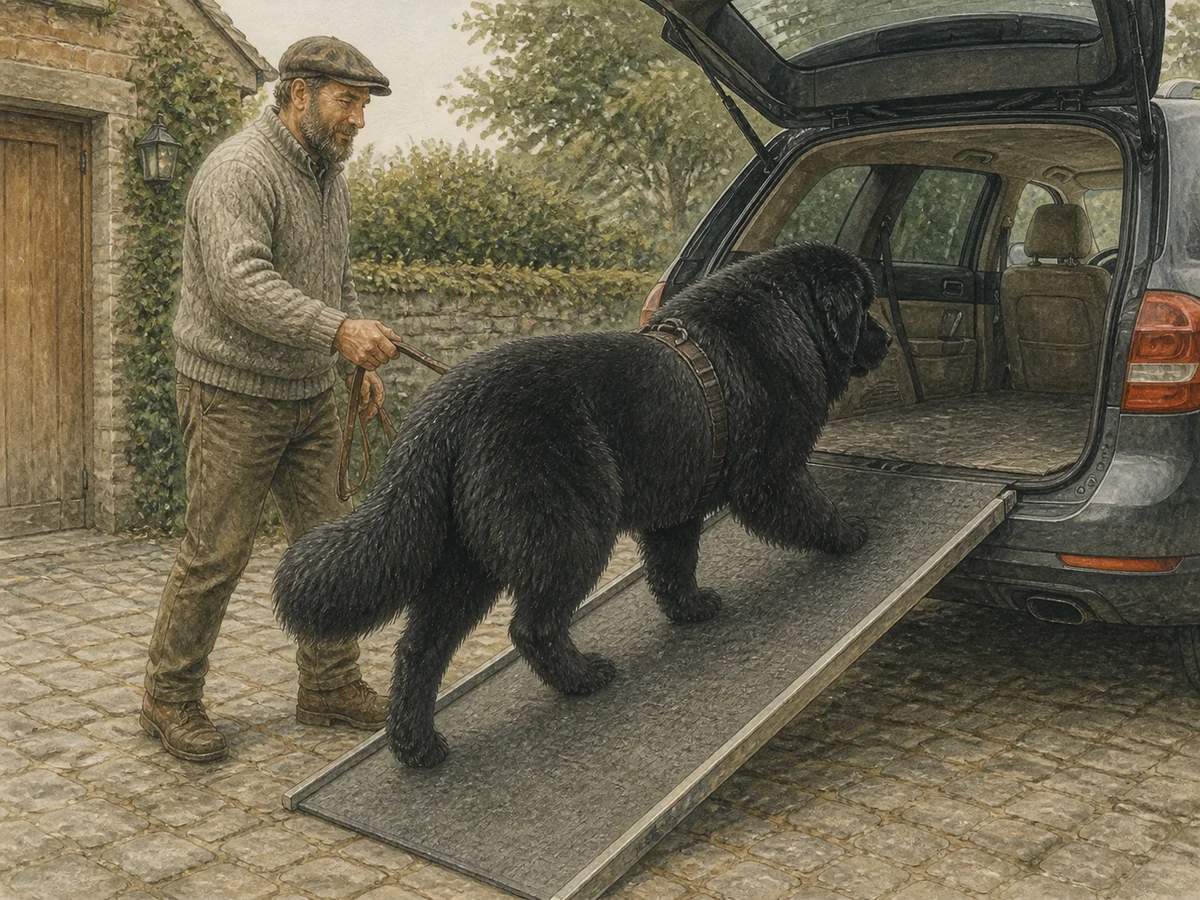
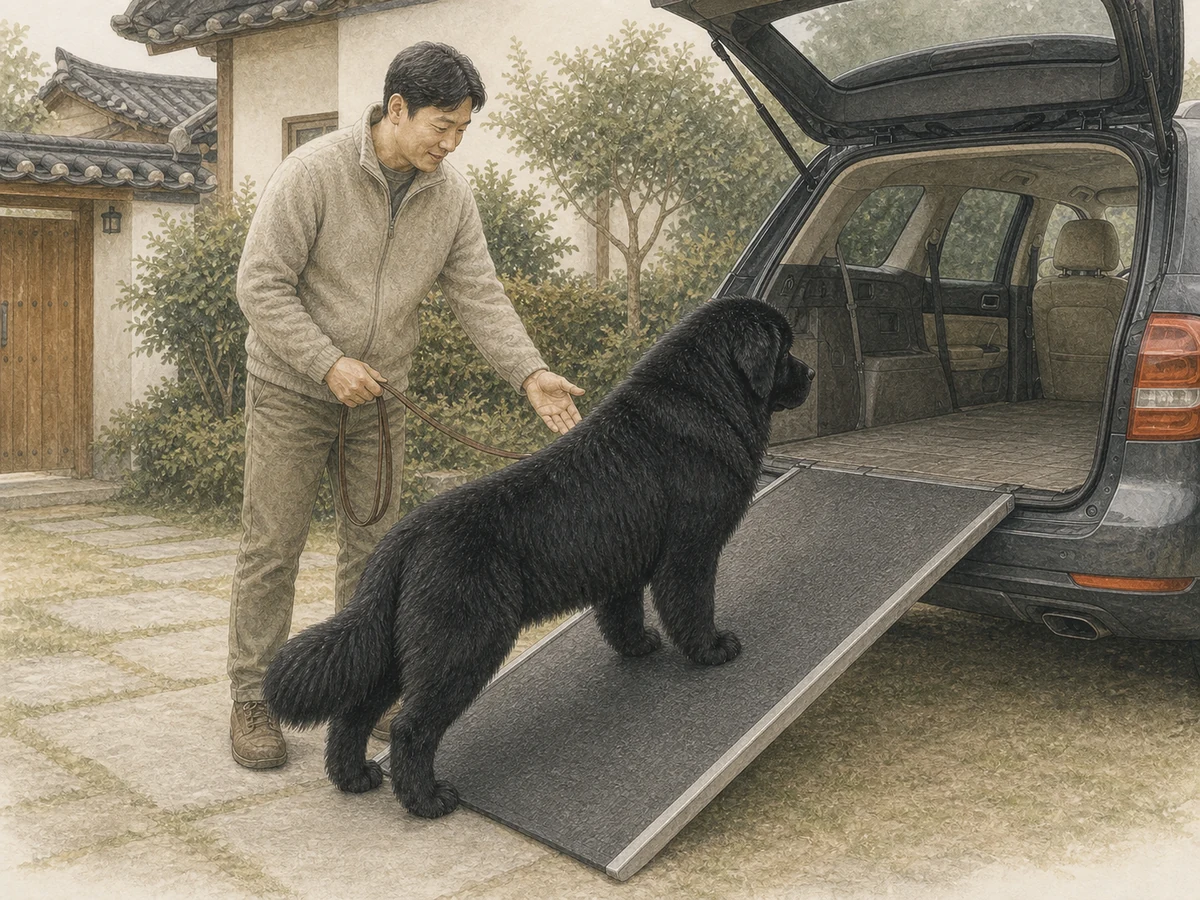
뉴펀들랜드 상세 이미지와 생활 현실 교정

diff --git a/src/content/breeds/detail-batch-d.ts b/src/content/breeds/detail-batch-d.ts
@@ -24,7 +24,7 @@ const drafts: Draft[] = [
   { slug: "alaskan-malamute", nameKo: "알래스칸 말라뮤트", nameEn: "Alaskan Malamute", tagline: "늑대를 닮은 외모보다 먼저, 북극권에서 무거운 짐을 오래 옮긴 힘과 더위·탈출 관리의 현실을 봐야 해요.", group: "northern-working", tags: ["북극권 운반견", "강한 지구력", "두꺼운 이중모"], colors: ["#87918e", "#dce5df", "#303b3d"], origin: "미국·알래스카", lineage: "알래스카 원주민 공동체와 살아온 북방 스피츠형 썰매견", role: "무거운 화물과 썰매를 장거리로 운반", size: "대형 · 약 58~64cm", lifespan: "10년 이상(RKC 참고, 개체별 차이 있음)", history: "혹독한 북극 환경에서 공동체와 함께 무거운 짐을 안정적으로 옮기는 힘과 지구력이 중요했습니다.", present: "당기는 힘과 탐색·굴파기 욕구가 생활에서 나타날 수 있지만 개체의 경험과 환경에 따라 정도가 달라요.", guide: "선선한 시간에 꾸준히 움직이고, 튼튼한 장비와 탈출 방지 울타리, 파도 괜찮은 탐색 공간을 마련하세요.", reality: "산책 횟수만 늘리는 것으로 충분하지 않아요. 더위, 큰 힘, 털갈이와 다른 동물에 대한 실제 반응을 함께 관리해야 합니다.", care: ["기온과 습도가 높은 시간에는 활동을 피하고 시원한 실내를 유지하세요.", "문·울타리 아래와 잠금 장치를 확인해 탈출과 굴파기를 예방하세요.", "작은 동물과의 동거는 품종 이미지가 아닌 해당 개체의 실제 반응으로 판단하세요."], levels: ["높은 편","중간","높은 편","높은 편","중간","높은 편"], related: ["samoyed","akita"], relatedCopy: ["북방 작업견의 공통점과 운반·교감 방식의 차이를 비교해요.","대형 스피츠 사이의 활동, 관계, 더위 관리 부담을 살펴보세요."], fci: "243g05-en.pdf", rkc: "working/alaskan-malamute" },
   { slug: "jack-russell-terrier", nameKo: "잭 러셀 테리어", nameEn: "Jack Russell Terrier", tagline: "작은 몸 안에 땅속 목표를 끝까지 찾던 테리어의 속도와 집요함이 있어, 귀여움보다 할 일을 먼저 준비해야 해요.", group: "companion", tags: ["굴 사냥 테리어", "높은 추적 욕구", "작지만 활동적"], colors: ["#d4b486", "#e4e0ce", "#473a2f"], origin: "영국·잉글랜드", lineage: "19세기 폭스테리어 계통에서 발달", role: "여우를 굴에서 찾아내는 사냥 보조견", size: "소형 · 약 25~30cm", lifespan: "12년 이상(RKC 참고, 개체별 차이 있음)", history: "말을 탄 사냥대와 움직이며 냄새를 쫓고 좁은 굴까지 들어가 목표를 찾아내는 끈기와 민첩성이 요구됐습니다.", present: "작은 움직임을 쫓거나 땅을 파고 과제에 집요하게 몰입할 수 있지만 모든 개체의 강도는 같지 않아요.", guide: "긴 줄 산책과 냄새 찾기, 땅을 파도 되는 장소를 제공하고 흥분 뒤 자리로 돌아와 쉬는 연습을 함께 해주세요.", reality: "작은 체격은 쉬운 양육을 보장하지 않습니다. 활동과 추적 욕구를 채우지 못하면 보호자가 원치 않는 일이 생길 수 있어요.", care: ["야생동물과 작은 반려동물을 향한 추적은 리드와 울타리로 예방하세요.", "합법적이고 안전하게 땅을 팔 수 있는 대체 공간이나 노즈워크를 제공하세요.", "계속 공을 던지기보다 흥분을 낮추는 냄새 탐색과 휴식을 섞어 주세요."], levels: ["높은 편","높은 편","높은 편","중간","높은 편","낮은 편"], related: ["yorkshire-terrier","dachshund"], relatedCopy: ["작은 테리어의 빠른 반응과 활동·피모 부담 차이를 살펴보세요.","굴 사냥 배경을 공유하지만 체형과 움직임 방식은 크게 달라요."], fci: "345g03-en.pdf", rkc: "terrier/jack-russell-terrier" },
   { slug: "boston-terrier", nameKo: "보스턴 테리어", nameEn: "Boston Terrier", tagline: "단정한 턱시도 무늬와 사람 친화적인 도시 반려견의 역사 뒤에, 호흡과 눈을 세심히 볼 책임이 있어요.", group: "companion", tags: ["미국 도시 반려견", "사람과의 교감", "더위 주의"], colors: ["#9b9285", "#e6dfce", "#313332"], origin: "미국·보스턴", lineage: "19세기 미국에서 불독·테리어형 개를 바탕으로 반려견으로 정립", role: "도시 가정의 소형 반려견", size: "소형 · 약 7~11kg 이하 등급", lifespan: "10년 이상(RKC 참고, 개체별 차이 있음)", history: "보스턴의 도시 생활 속에서 사람 가까이 지내는 작고 단정한 반려견으로 점차 정립됐습니다.", present: "가족 활동에 적극적으로 참여하고 놀이를 즐길 수 있지만 호흡 능력과 흥분 회복은 개체별로 확인해야 해요.", guide: "더운 날 활동을 줄이고 목을 압박하지 않는 장비를 쓰며, 눈 주변과 호흡 소리의 변화를 일상적으로 살펴보세요.", reality: "작고 친근한 이미지가 건강 부담을 지우지는 않습니다. 외모보다 편안한 호흡과 기능적인 체형을 우선해야 해요.", care: ["더위와 습도가 높은 날에는 짧게 움직이고 호흡이 안정되는지 확인하세요.", "돌출된 눈이 가지나 거친 놀이에 다치지 않도록 환경을 정리하세요.", "코골이와 거친 숨을 정상으로 단정하지 말고 변화가 있으면 진료받으세요."], levels: ["중간","중간","중간","높은 편","중간","낮은 편"], related: ["french-bulldog","boxer"], relatedCopy: ["짧은 주둥이의 소형 반려견 사이에서 체형과 생활 부담을 비교해요.","계통의 접점과 체격·활동 요구의 큰 차이를 살펴보세요."], fci: "140g09-en.pdf", rkc: "utility/boston-terrier" },
-  { slug: "newfoundland", nameKo: "뉴펀랜드", nameEn: "Newfoundland", tagline: "거대한 검은 몸과 온화한 인상 뒤에는 차가운 바다에서 어부와 함께 줄을 옮기고 사람을 도운 작업의 역사가 있어요.", group: "guardian-working", tags: ["캐나다 수상 작업견", "초대형 체격", "풍성한 피모"], colors: ["#69716e", "#d8e1db", "#293332"], origin: "캐나다·뉴펀들랜드", lineage: "북대서양 어촌의 대형 수상 작업견", role: "어망·줄 운반과 배 주변의 수상 작업 보조", size: "초대형 · 약 66~71cm, 50~68kg", lifespan: "10년 미만일 수 있음(RKC 참고, 개체별 차이 있음)", history: "차가운 항구에서 어부 곁을 지키고 물속의 줄이나 장비를 옮기는 데 큰 힘과 수영 능력을 사용했습니다.", present: "사람 가까이에서 침착하게 협력할 수 있지만 물을 좋아하는지는 개체 경험에 따라 다르며 억지 입수는 위험해요.", guide: "큰 몸이 편히 돌고 쉴 공간, 젖은 이중모를 완전히 말릴 시간과 미끄럼 방지 동선을 준비하세요.", reality: "온화하다는 평판만으로 선택할 수 없어요. 침·털·더위·초대형견 의료비와 짧을 수 있는 수명을 함께 받아들여야 합니다.", care: ["수영은 구명조끼와 안전한 출구를 갖춘 곳에서 개체의 선택을 존중하며 시작하세요.", "젖은 속털과 피부를 완전히 말려 습진과 엉킴을 예방하세요.", "성장기 체중과 관절, 심장 상태를 수의사와 정기적으로 확인하세요."], levels: ["중간","중간","중간","높은 편","중간","높은 편"], related: ["bernese-mountain-dog","great-dane"], relatedCopy: ["초대형 작업견의 공통점과 물·산악 환경에서의 역할 차이를 비교해요.","거대한 체격이 만드는 주거·비용·건강 부담을 함께 살펴보세요."], fci: "050g02-en.pdf", rkc: "working/newfoundland" },
+  { slug: "newfoundland", nameKo: "뉴펀들랜드", nameEn: "Newfoundland", tagline: "거대한 검은 몸과 온화한 인상 뒤에는 차가운 바다에서 어부와 함께 줄을 옮기고 사람을 도운 작업의 역사가 있어요.", group: "guardian-working", tags: ["캐나다 수상 작업견", "초대형 체격", "풍성한 피모"], colors: ["#69716e", "#d8e1db", "#293332"], origin: "캐나다·뉴펀들랜드", lineage: "북대서양 어촌의 대형 수상 작업견", role: "어망·줄 운반과 배 주변의 수상 작업 보조", size: "초대형 · 약 66~71cm, 50~68kg", lifespan: "10년 미만일 수 있음(RKC 참고, 개체별 차이 있음)", history: "차가운 항구에서 어부 곁을 지키고 물속의 줄이나 장비를 옮기는 데 큰 힘과 수영 능력을 사용했습니다.", present: "사람 가까이에서 침착하게 협력할 수 있지만 물을 좋아하는지는 개체 경험에 따라 다르며 억지 입수는 위험해요.", guide: "물가에서는 몸에 맞는 구명조끼와 낮은 출구를 준비하고, 일상에서는 느슨한 리드·방향 전환·현관 대기를 보상으로 연습하세요.", reality: "온화하다는 평판과 별개로 초대형 몸이 움직인 뒤에는 힘만으로 되돌리기 어렵습니다. 산책·출입 통제, 젖은 이중모, 더위·비용·이동 부담을 함께 감당해야 해요.", care: ["물가에서는 몸에 맞는 구명조끼와 안전한 출구를 준비하고 개체가 자발적으로 접근하도록 하세요.", "젖은 속털과 피부를 완전히 말려 습진과 엉킴을 예방하세요.", "성장기 체중과 관절·심장을 수의사와 확인하고, 느슨한 리드·방향 전환·대기를 보상으로 연습하세요."], levels: ["중간","중간","중간","높은 편","중간","높은 편"], related: ["bernese-mountain-dog","great-dane"], relatedCopy: ["초대형 작업견의 공통점과 물·산악 환경에서의 역할 차이를 비교해요.","거대한 체격이 만드는 주거·비용·건강 부담을 함께 살펴보세요."], fci: "050g02-en.pdf", rkc: "working/newfoundland" },
 ];
 
 const levelNote: Record<Label, string> = { "낮은 편": "상대적으로 부담이 낮을 수 있지만 개체별 확인이 필요해요.", "중간": "일상에서 꾸준히 충족하고 개체 반응을 살펴야 해요.", "높은 편": "충분한 시간과 구체적인 관리 계획이 필요해요.", "개체별 확인 필요": "품종만으로 판단하지 말고 해당 개체를 직접 확인하세요." };
@@ -47,7 +47,7 @@ const historyAltOverrides: Partial<Record<string, string>> = {
   rottweiler: "독일 로트바일의 가축 시장과 수레 곁에서 소 떼 이동과 운반을 돕는 롯트와일러를 그린 편집 수채화",
   boxer: "19세기 말 독일의 작업장 마당에서 상인 곁을 지키는 황갈색과 흰색 복서를 그린 편집 수채화",
   "great-dane": "19세기 독일 영지의 저택과 출입문 앞에서 관리인 곁을 지키는 검은 단모와 흰 가슴의 그레이트 덴을 그린 편집 수채화",
-  newfoundland: "뉴펀들랜드 항구에서 어부에게 젖은 줄과 어망을 옮기는 검은 뉴펀들랜드를 그린 편집 수채화",
+  newfoundland: "뉴펀들랜드 항구에서 검은 뉴펀들랜드가 젖은 줄을 배의 어부에게 건네고 어망 운반을 돕는 편집 수채화",
   "alaskan-malamute": "알래스카 북극권 해안 마을에서 무거운 짐을 실은 썰매를 사람과 함께 끄는 알래스칸 말라뮤트를 그린 편집 수채화",
   "boston-terrier": "미국 보스턴의 붉은 벽돌 주택가에서 가족과 함께 선 검정과 흰색 보스턴 테리어를 그린 편집 수채화",
 };
@@ -66,7 +66,13 @@ const additionalSources: Partial<Record<string, Breed["sources"]>> = {
   ],
   rottweiler: [{ title: "Rottweiler History: From Working Dog to Sporting, Therapy Dog", organization: "American Kennel Club", url: "https://www.akc.org/expert-advice/dog-breeds/rottweiler-history/", checkedAt: "2026-08-29" }],
   boxer: [{ title: "Boxer History", organization: "American Kennel Club", url: "https://www.akc.org/expert-advice/dog-breeds/boxer-history/", checkedAt: "2026-08-29" }],
-  newfoundland: [{ title: "Newfoundland Breed History", organization: "American Kennel Club", url: "https://www.akc.org/expert-advice/dog-breeds/newfoundland-history/", checkedAt: "2026-08-29" }],
+  newfoundland: [
+    { title: "Newfoundland Breed History", organization: "American Kennel Club", url: "https://www.akc.org/expert-advice/dog-breeds/newfoundland-history/", checkedAt: "2026-09-01" },
+    { title: "How to Train a Newfoundland Puppy: Timeline & Schedule", organization: "American Kennel Club", url: "https://www.akc.org/expert-advice/dog-breeds/how-to-train-a-newfoundland-puppy/", checkedAt: "2026-09-01" },
+    { title: "What Every Dog Owner Should Know About Water Safety", organization: "American Kennel Club", url: "https://www.akc.org/expert-advice/health/tips-for-taking-your-dog-out-on-the-water/", checkedAt: "2026-09-01" },
+    { title: "Humane Dog Training Position Statement", organization: "American Veterinary Society of Animal Behavior", url: "https://avsab.org/wp-content/uploads/2021/08/AVSAB-Humane-Dog-Training-Position-Statement-2021.pdf", checkedAt: "2026-09-01" },
+    { title: "Professional Dog Walkers’ Guidelines", organization: "RSPCA", url: "https://www.rspca.org.uk/webContent/staticImages/Downloads/DogWalkingGuide.pdf", checkedAt: "2026-09-01" },
+  ],
   "alaskan-malamute": [{ title: "Alaskan Malamute Breed History", organization: "American Kennel Club", url: "https://www.akc.org/expert-advice/lifestyle/alaskan-malamute-history-arctic-sled/", checkedAt: "2026-08-29" }],
   "boston-terrier": [{ title: "Boston Terrier Breed History", organization: "American Kennel Club", url: "https://www.akc.org/expert-advice/dog-breeds/boston-terrier-history/", checkedAt: "2026-08-29" }],
 };

diff --git a/src/content/standard-breed-detail/data.ts b/src/content/standard-breed-detail/data.ts
@@ -1605,11 +1605,11 @@ const boxerDetail = standardBreedDetailSchema.parse({
 const newfoundlandDetail = standardBreedDetailSchema.parse({
   slug: "newfoundland",
   nameKo: "뉴펀들랜드",
-  metadataDescription: "뉴펀들랜드 섬에서 무거운 짐과 수상 작업을 도운 초대형견의 배경과 힘 조절, 물 활동 뒤 회복, 큰 몸의 이동과 젖은 이중모 관리를 살펴봅니다.",
+  metadataDescription: "뉴펀들랜드 섬에서 물가 일을 도운 초대형견의 배경과 안전한 물 접근, 큰 힘을 미리 조율하는 산책·출입 연습, 차량 이동과 젖은 이중모 관리를 살펴봅니다.",
   heroStatement: "북대서양 연안에서 무거운 짐을 옮기고 물가 일을 도운 수상 작업견이에요.",
   story: {
-    title: "뉴펀들랜드는 왜 큰 힘을 천천히 쓰고 물가에서 사람과 협력할까요?",
-    description: "육지의 무거운 짐과 거친 바다를 오가던 배경을 알면 큰 힘의 조절과 물 활동, 초대형 몸의 회복을 함께 이해할 수 있어요.",
+    title: "뉴펀들랜드는 왜 물가의 협력과 초대형 몸의 통제를 함께 준비해야 할까요?",
+    description: "어부와 함께한 수상 작업의 배경을 오늘의 안전한 물 접근, 큰 힘의 조율과 이동·피모 관리로 바꿔 살펴봐요.",
     steps: [
       {
         navLabel: "수상 작업의 배경",
@@ -1617,26 +1617,26 @@ const newfoundlandDetail = standardBreedDetailSchema.parse({
         title: "뉴펀들랜드 섬에서 무거운 짐과 물가의 일을 도왔어요.",
         body: "뉴펀들랜드는 거친 기후 속에서 육지의 무거운 짐을 끌고 물에서는 줄과 장비를 옮기는 일을 했어요. 큰 힘과 수영 능력을 사람의 방향에 맞춰 안정적으로 사용하는 협력이 중요했어요.",
         image: "/illustrations/v3/newfoundland-history.webp",
-        imageAlt: "뉴펀들랜드 항구에서 젖은 줄과 어망을 어부에게 옮기는 검은 성견 뉴펀들랜드 삽화",
+        imageAlt: "뉴펀들랜드 항구에서 젖은 줄을 어부에게 건네고 배 옆 어망이 보이는 길고 균형 잡힌 검은 성견 뉴펀들랜드 삽화",
       },
       {
-        navLabel: "현재의 경향",
+        navLabel: "안전한 물 접근",
         eyebrow: "2단계 · 오늘은 어떻게 나타날까?",
-        title: "큰 힘을 서두르지 않고 일정한 속도로 쓰는 과제에 참여할 수 있어요.",
-        body: "몸으로 밀거나 당기는 움직임은 작은 방향 변화도 크게 전달할 수 있어요. 몸에 맞는 장비로 가벼운 빈 수레를 짧게 옮기고 손 신호에 멈추는 협업을 천천히 구성해요.",
-        image: "/illustrations/v4/newfoundland-feature-controlled-hauling.webp",
-        imageAlt: "해안 길에서 넓은 하네스로 가벼운 빈 수레를 천천히 끌며 보호자의 멈춤 신호를 확인하는 검은 성견 뉴펀들랜드 삽화",
+        title: "물에 익숙하다는 평판보다 안전한 출구와 자발적인 접근이 먼저예요.",
+        body: "모든 개체가 물을 좋아하거나 구조 작업에 적합한 것은 아니에요. 몸에 맞는 구명조끼와 미끄럽지 않은 낮은 출구를 먼저 준비하고, 얕은 곳에서 스스로 다가오고 돌아오는 선택을 짧게 보상하세요.",
+        image: "/illustrations/v4/newfoundland-feature-safe-water-entry.webp",
+        imageAlt: "낮은 물가 출구에서 구명조끼를 입고 느슨한 라인으로 보호자의 손 신호를 바라보는 검은 성견 뉴펀들랜드 삽화",
       },
       {
-        navLabel: "생활의 현실",
+        navLabel: "큰 힘의 조율",
         eyebrow: "3단계 · 보호자는 무엇을 체감할까?",
-        title: "물에서 나온 뒤 큰 몸을 말리고 완전히 쉬는 시간까지 필요해요.",
-        body: "수영을 마친 뒤에도 젖은 몸과 장비 때문에 활동은 바로 끝나지 않아요. 넓은 출수 경로로 나온 뒤 도구를 치우고 물을 마시며 큰 매트에서 쉬는 순서를 준비해요.",
-        image: "/illustrations/v4/newfoundland-feature-water-to-rest.webp",
-        imageAlt: "차가운 물가에서 나온 뒤 젖은 검은 성견 뉴펀들랜드가 큰 매트에 누워 물을 마시며 쉬는 삽화",
+        title: "온순한 개체도 초대형 몸의 힘은 움직이기 전에 조율해야 해요.",
+        body: "사람 가까이 협력하는 개체도 한두 걸음 크게 나간 뒤에는 보호자가 힘으로 되돌리기 어려워요. 느슨한 리드 걷기·보호자에게 돌아보기·방향 전환·현관과 차량 대기를 보상으로 반복하고, 필요한 개체는 전문가와 바스켓형 입마개 적응도 준비하세요.",
+        image: "/illustrations/v4/newfoundland-feature-guided-turn.webp",
+        imageAlt: "넓은 공원길에서 Y형 하네스와 느슨한 리드로 보호자에게 돌아와 보상을 받으며 방향을 바꾸는 검은 성견 뉴펀들랜드 삽화",
       },
     ],
-    caution: "운반과 수상 작업의 과거 배경은 행동을 이해하는 단서일 뿐이에요. 물과 당기기에 대한 관심, 힘과 회복 속도는 성장 환경과 경험, 건강 상태와 개체에 따라 달라요.",
+    caution: "운반과 수상 작업의 과거 배경이나 온순한 품종 표준이 모든 개체의 물 반응·통제 가능성을 보증하지 않아요. 실제 모습은 성장 환경과 경험, 건강 상태와 개체에 따라 달라요.",
   },
   realitiesTitle: "뉴펀들랜드의 생활 현실",
   realities: [
@@ -1657,8 +1657,8 @@ const newfoundlandDetail = standardBreedDetailSchema.parse({
   ],
   readinessTitle: "뉴펀들랜드와 보낼 일상을 생각해보세요.",
   readinessQuestions: [
-    "초대형 몸의 힘을 짧고 가벼운 협업 과제와 멈춤 신호 안에서 안전하게 조절할 수 있나요?",
-    "물 활동의 안전한 출구와 회복 자리를 준비하고 젖은 장비와 큰 몸을 충분히 말릴 수 있나요?",
+    "느슨한 리드 걷기·보호자에게 돌아보기·방향 전환·현관과 차량 대기를 보상으로 반복할 수 있나요?",
+    "몸에 맞는 구명조끼와 안전한 출구를 준비하고 물 접근과 회복을 개체의 속도에 맞출 수 있나요?",
     "안아 옮기지 않아도 되는 차량·주거 동선과 초대형견의 공간·비용을 마련할 수 있나요?",
   ],
   relatedTitle: "뉴펀들랜드가 마음에 들지만 망설여진다면",

diff --git a/src/content/standard-breed-detail/data.test.ts b/src/content/standard-breed-detail/data.test.ts
@@ -1003,8 +1003,8 @@ describe("standard breed detail editorial data", () => {
       slug: "newfoundland",
       storyImages: [
         "/illustrations/v3/newfoundland-history.webp",
-        "/illustrations/v4/newfoundland-feature-controlled-hauling.webp",
-        "/illustrations/v4/newfoundland-feature-water-to-rest.webp",
+        "/illustrations/v4/newfoundland-feature-safe-water-entry.webp",
+        "/illustrations/v4/newfoundland-feature-guided-turn.webp",
       ],
       realityImages: [
         "/illustrations/v4/newfoundland-feature-massive-dog-route.webp",
@@ -1456,6 +1456,22 @@ describe("standard breed detail editorial data", () => {
     expect(getBreed("great-dane")?.sources).toContainEqual(expect.objectContaining({ organization: "RSPCA" }));
   });
 
+  it("frames Newfoundland water access and giant-dog control as preventive and reward-based", () => {
+    const detail = getStandardBreedDetail("newfoundland")!;
+    const waterStep = detail.story.steps[1];
+    const controlStep = detail.story.steps[2];
+
+    expect(getBreed("newfoundland")?.nameKo).toBe("뉴펀들랜드");
+    expect(waterStep.title).toContain("안전한 출구");
+    expect(waterStep.body).toContain("구명조끼");
+    expect(controlStep.title).toContain("움직이기 전에 조율");
+    expect(controlStep.body).toContain("느슨한 리드 걷기");
+    expect(controlStep.body).toContain("필요한 개체");
+    expect(controlStep.image).toBe("/illustrations/v4/newfoundland-feature-guided-turn.webp");
+    expect(getBreed("newfoundland")?.sources).toContainEqual(expect.objectContaining({ organization: "American Veterinary Society of Animal Behavior" }));
+    expect(getBreed("newfoundland")?.sources).toContainEqual(expect.objectContaining({ organization: "RSPCA" }));
+  });
+
   it.each([
     ["chihuahua", "American Kennel Club", "Chihuahua-club-flier.pdf"],
     ["pug", "Royal Veterinary College", "brachycephaly/health-issues"],
@@ -1611,7 +1627,7 @@ describe("standard breed detail editorial data", () => {
 
   it.each([
     ["boxer", "작업장 마당"],
-    ["newfoundland", "젖은 줄과 어망"],
+    ["newfoundland", "젖은 줄"],
     ["weimaraner", "숲 가장자리"],
     ["german-short-haired-pointing-dog", "얕은 습지"],
     ["australian-cattle-dog", "소 무리"],

diff --git a/docs/image-prompts-newfoundland-2026-09-01.md b/docs/image-prompts-newfoundland-2026-09-01.md
@@ -1,0 +1,28 @@
+# 뉴펀들랜드 상세 이미지 프롬프트 기록 — 2026-09-01
+
+## 생성 기준
+
+- 생성 방식: Codex 내장 ImageGen, 대표 카드 이미지 참조 모드
+- 최종 형식: 1200×900 WebP, Dog Atlas의 편집 수채화 질감
+- 동일 개체 기준: 대표 카드와 같은 검은 성견 뉴펀들랜드. 길고 균형 잡힌 강한 몸, 깊은 가슴, 곧고 충분히 보이는 다리, 넓고 각진 주둥이, 작은 늘어진 귀, 촘촘한 장모성 이중모, 낮게 이어지는 굵은 꼬리를 유지한다.
+- 공통 제외: 짧고 뭉툭한 비만 체형, 흰 가슴 무늬, 다른 견종, 여러 마리, 돌진, 제압, 팽팽한 리드, 강압 장비, 기본 입마개, 글자와 로고.
+
+## 프롬프트 세트
+
+1. `newfoundland-history.webp`
+   - 19세기 후반 뉴펀들랜드 항구. 검은 성견 한 마리가 젖은 줄을 배 옆 어부에게 건네고 주변에 어망과 목선이 보이는 수상 작업 협력 장면. 개는 물속이 아니라 부두의 안정된 지면에 있고, 역사 편집 삽화의 차분한 거리감을 유지한다.
+2. `newfoundland-feature-safe-water-entry.webp`
+   - 오늘의 잔잔한 호숫가. 몸에 맞는 구명조끼를 입은 검은 성견이 미끄럽지 않은 낮은 출입 경사면의 얕은 물에서 스스로 보호자의 손 신호를 확인한다. 떠 있는 안전 라인은 느슨하고, 억지 입수나 구조 시범은 없다.
+3. `newfoundland-feature-guided-turn.webp`
+   - 한국의 넓은 공원 산책로. Y형 하네스를 착용한 검은 성견이 느슨한 J자 리드로 보호자에게 돌아와 보상을 받으며 방향을 바꾼다. 돌진·제압·팽팽한 리드·입마개는 없다.
+4. `newfoundland-feature-massive-dog-route.webp`
+   - 한국의 주거 공간 앞 대형 SUV. 보호자의 손 목표와 느슨한 리드를 따라 검은 성견이 넓고 낮은 미끄럼 방지 경사로로 스스로 차량에 오르는 장면. 사람이 개를 들어 올리거나 뒤에서 밀지 않는다.
+5. `newfoundland-feature-wet-coat-drying.webp`
+   - 현대 주택의 덮인 테라스. 큰 미끄럼 방지 매트 위 검은 성견의 귀 뒤와 가슴 속털을 보호자가 수건으로 나누어 말리고, 낮은 바람의 드라이어는 안전한 거리에 둔다. 개는 서서 편안하게 협력한다.
+
+## 경로 변경
+
+- `newfoundland-feature-controlled-hauling.webp` → `newfoundland-feature-safe-water-entry.webp`
+- `newfoundland-feature-water-to-rest.webp` → `newfoundland-feature-guided-turn.webp`
+
+빈 수레 운반은 일반 보호자의 권장 활동처럼 보일 수 있어 제거했다. 물 접근은 구명조끼·안전한 출구·자발적 선택으로, 생활 현실은 초대형 몸이 움직이기 전 느슨한 리드·돌아보기·방향 전환을 보상하는 장면으로 교체했다.

diff --git a/docs/project-status.md b/docs/project-status.md
@@ -7,6 +7,14 @@
 > 역할: 제품·디자인·코드·콘텐츠·검증 상태를 빠르게 파악하기 위한 살아 있는 문서
 > 갱신 책임: 중요한 변경을 수행한 사람 또는 AI가 같은 변경 안에서 이 문서를 함께 수정한다.
 
+### 2026-09-01 뉴펀들랜드 상세 이미지·안전한 물 접근·통제 현실 교정
+
+- 기본 견종 데이터의 잘못된 한글 이름 `뉴펀랜드`를 `뉴펀들랜드`로 바로잡았다.
+- 대표 카드의 검은 장모·넓고 각진 머리·길고 균형 잡힌 초대형 체형을 기준으로 역사·현재 경향·생활 현실 상세 이미지 5장을 전부 다시 만들었다. 모든 자산은 Codex 내장 ImageGen의 이미지 참조 모드로 생성한 뒤 1200×900 WebP로 저장했다.
+- `과거에서 오늘까지`의 2단계는 빈 수레 운반에서 구명조끼·낮은 출구·자발적 선택을 우선하는 안전한 물 접근으로 바꿨다. 3단계는 물놀이 뒤 휴식에서 느슨한 리드 걷기·보호자에게 돌아보기·방향 전환·현관과 차량 대기를 보상으로 준비하는 초대형견 통제 현실로 교체했다.
+- 뉴펀들랜드는 가축보호견처럼 서술하지 않았다. 입마개도 품종 전체의 기본 산책 장비가 아니라 필요한 개체가 전문가와 바스켓형에 적응하는 추가 안전 준비로만 설명했다.
+- 상세 경로는 `newfoundland-feature-safe-water-entry.webp`와 `newfoundland-feature-guided-turn.webp`로 의미에 맞게 바꾸고, AKC의 역사·훈련·물 안전 안내와 AVSAB·RSPCA의 보상 기반 훈련·입마개 자료를 직접 출처에 추가했다.
+
 ### 2026-09-01 그레이트 덴 상세 이미지·3단계 통제 현실 교정
 
 - 기존 황갈색·처진 귀 개체가 남아 있던 역사·현재 경향·생활 현실 상세 이미지 5장을 대표 카드와 같은 검은 단모·흰 가슴 패치·높게 솟은 귀·긴 다리의 성견으로 전부 다시 만들었다. 모든 자산은 Codex 내장 ImageGen의 이미지 참조 모드로 생성한 뒤 1200×900 WebP로 저장했다.

diff --git a/docs/breed-detail-standard.md b/docs/breed-detail-standard.md
@@ -142,7 +142,7 @@
 
 이어 자이언트 슈나우저·포르투갈 워터 도그·아이리시 레드 세터를 추가했다. 자이언트 슈나우저는 큰 힘을 사람 신호 안에서 조절하는 협업과 알림 뒤 휴식으로, 포르투갈 워터 도그는 어선의 회수 작업을 구조화된 회수·안전한 출수·건조와 회복으로 연결했다. 아이리시 레드 세터는 넓은 포인팅 탐색을 보호자 재확인과 야생동물 안전, 활동 뒤 회복으로 나누어 같은 활동성 설명을 반복하지 않게 했다.
 
-다음으로 복서·뉴펀랜드·비즐라를 추가했다. 복서는 활기찬 몸 사용을 멈춤과 더위 회복으로, 뉴펀랜드는 수상 작업과 큰 힘을 초대형 이동·젖은 속털 관리로 연결했다. 비즐라는 들·숲·물을 오간 다목적 포인팅을 보호자 재확인과 독립 휴식, 야생동물 안전으로 나누어 교감이 곧 계속 붙어 있어야 한다는 의미로 읽히지 않게 했다.
+다음으로 복서·뉴펀들랜드·비즐라를 추가했다. 복서는 활기찬 몸 사용을 멈춤과 더위 회복으로, 뉴펀들랜드는 수상 작업과 큰 힘을 초대형 이동·젖은 속털 관리로 연결했다. 비즐라는 들·숲·물을 오간 다목적 포인팅을 보호자 재확인과 독립 휴식, 야생동물 안전으로 나누어 교감이 곧 계속 붙어 있어야 한다는 의미로 읽히지 않게 했다.
 
 이어 와이머라너·저먼 쇼트헤어드 포인터·플랫 코티드 리트리버를 추가했다. 와이머라너는 넓은 시야 탐색과 방문 거리·독립 휴식으로, 저먼 쇼트헤어드 포인터는 육지와 물의 과제 전환과 추적 안전·회복으로 분리했다. 플랫 코티드는 위치 기억과 부드러운 전달을 회수 과제의 종료·젖은 장식털·차량 이동으로 연결해 앞선 회수견과 같은 설명을 반복하지 않았다.
 

diff --git a/docs/breed-visual-audit.md b/docs/breed-visual-audit.md
@@ -133,7 +133,7 @@
 
 ## 2026-08-29 표준 상세 장면 대조 7차
 
-- 복서·뉴펀랜드·비즐라·와이머라너·저먼 쇼트헤어드 포인터·플랫 코티드 리트리버·체서피크 베이 리트리버·잉글리시 세터·보스롱·오스트레일리안 캐틀 독의 역사와 세 번째 이야기 그림 20장을 접촉표와 개별 화면으로 대조했다.
+- 복서·뉴펀들랜드·비즐라·와이머라너·저먼 쇼트헤어드 포인터·플랫 코티드 리트리버·체서피크 베이 리트리버·잉글리시 세터·보스롱·오스트레일리안 캐틀 독의 역사와 세 번째 이야기 그림 20장을 접촉표와 개별 화면으로 대조했다.
 - 20장 모두 원고의 장소·역할·행동과 충돌하지 않아 교체하지 않았다. 10종의 공통 역사 대체텍스트는 작업장 마당, 항구, 들·습지, 양 떼와 소 무리처럼 실제 그림에 보이는 내용을 담은 문장으로 교체했다.
 - 잉글리시 세터의 젖은 들판 활동 뒤 긴 줄·장비 정리와 오스트레일리안 캐틀 독의 원통 표식·긴 줄 정리 뒤 그늘 휴식이 제목과 본문에서 바로 읽히도록 고쳤다. 이는 장면 일치에 대한 편집 검수이며 외형 전문가의 컨포메이션 승인이 아니다.
 
